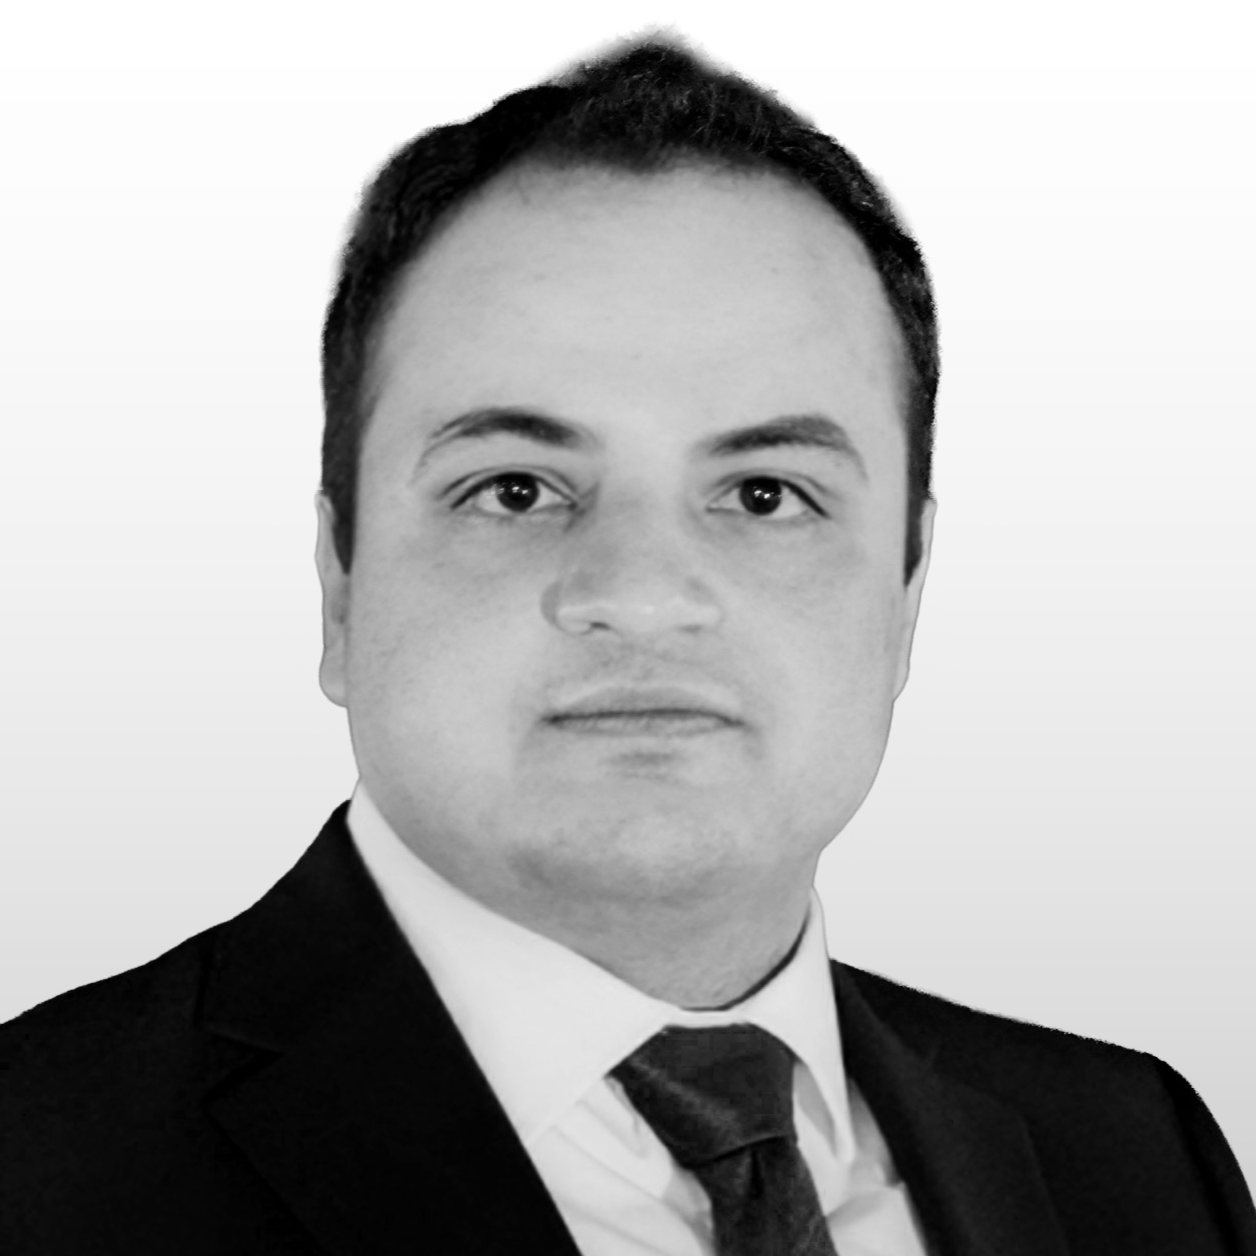
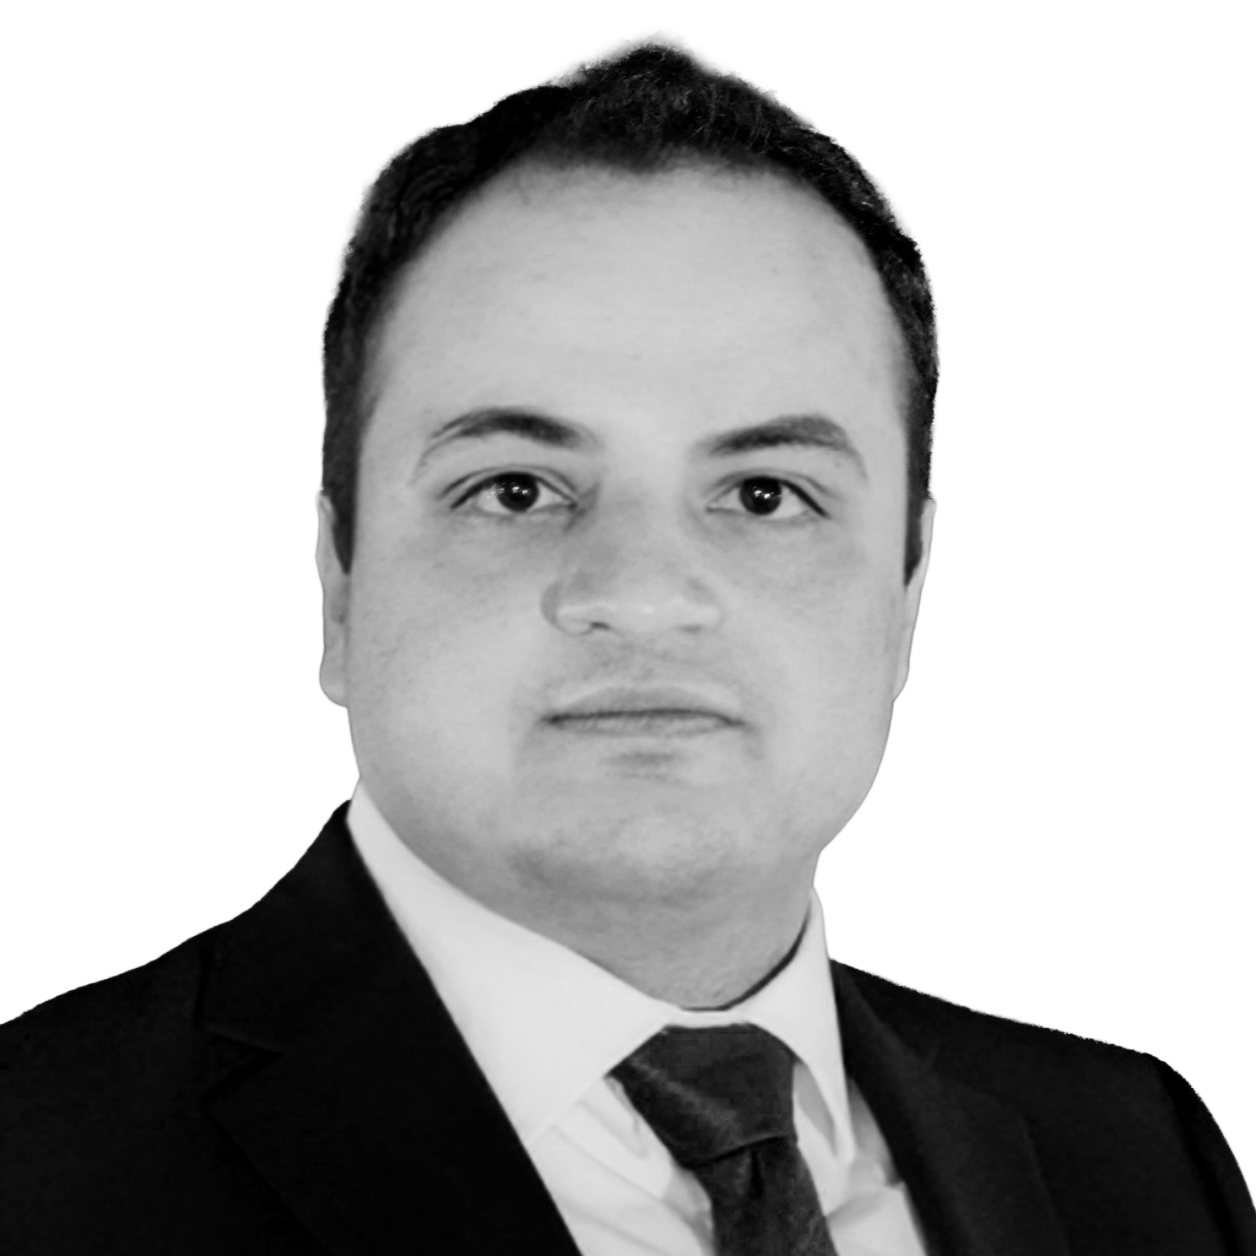
Update

diff --git a/public/index.html b/public/index.html
@@ -227,11 +227,6 @@ My research focuses …">
 <li>Data-driven decision support</li>
 <li>Construction and infrastructure management</li>
 </ul>
-<h2 id="contact">Contact</h2>
-<ul>
-<li>Email: <a href="mailto:eng.mohammadmovahedi@gmail.com">eng.mohammadmovahedi@gmail.com</a></li>
-<li>GitHub: <a href="https://github.com/m-movahedi">https://github.com/m-movahedi</a></li>
-</ul>
 
         </section>
 

diff --git a/content/_index.md b/content/_index.md
@@ -16,8 +16,3 @@ My research focuses on data-driven methods for understanding, managing, and impr
 - Urban mobility systems
 - Data-driven decision support
 - Construction and infrastructure management
-
-## Contact
-
-- Email: eng.mohammadmovahedi@gmail.com
-- GitHub: https://github.com/m-movahedi
